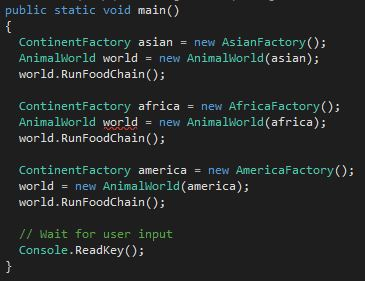
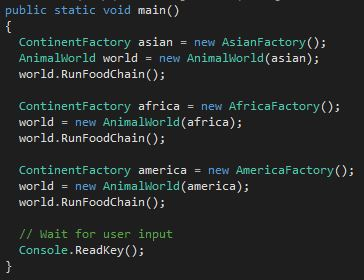
UPDATE9

diff --git a/week6/Lab601/Program.cs b/week6/Lab601/Program.cs
@@ -11,7 +11,7 @@ namespace Lab601
       world.RunFoodChain();
 
       ContinentFactory africa = new AfricaFactory();
-      AnimalWorld world = new AnimalWorld(africa);
+      world = new AnimalWorld(africa);
       world.RunFoodChain();
  
       ContinentFactory america = new AmericaFactory();
